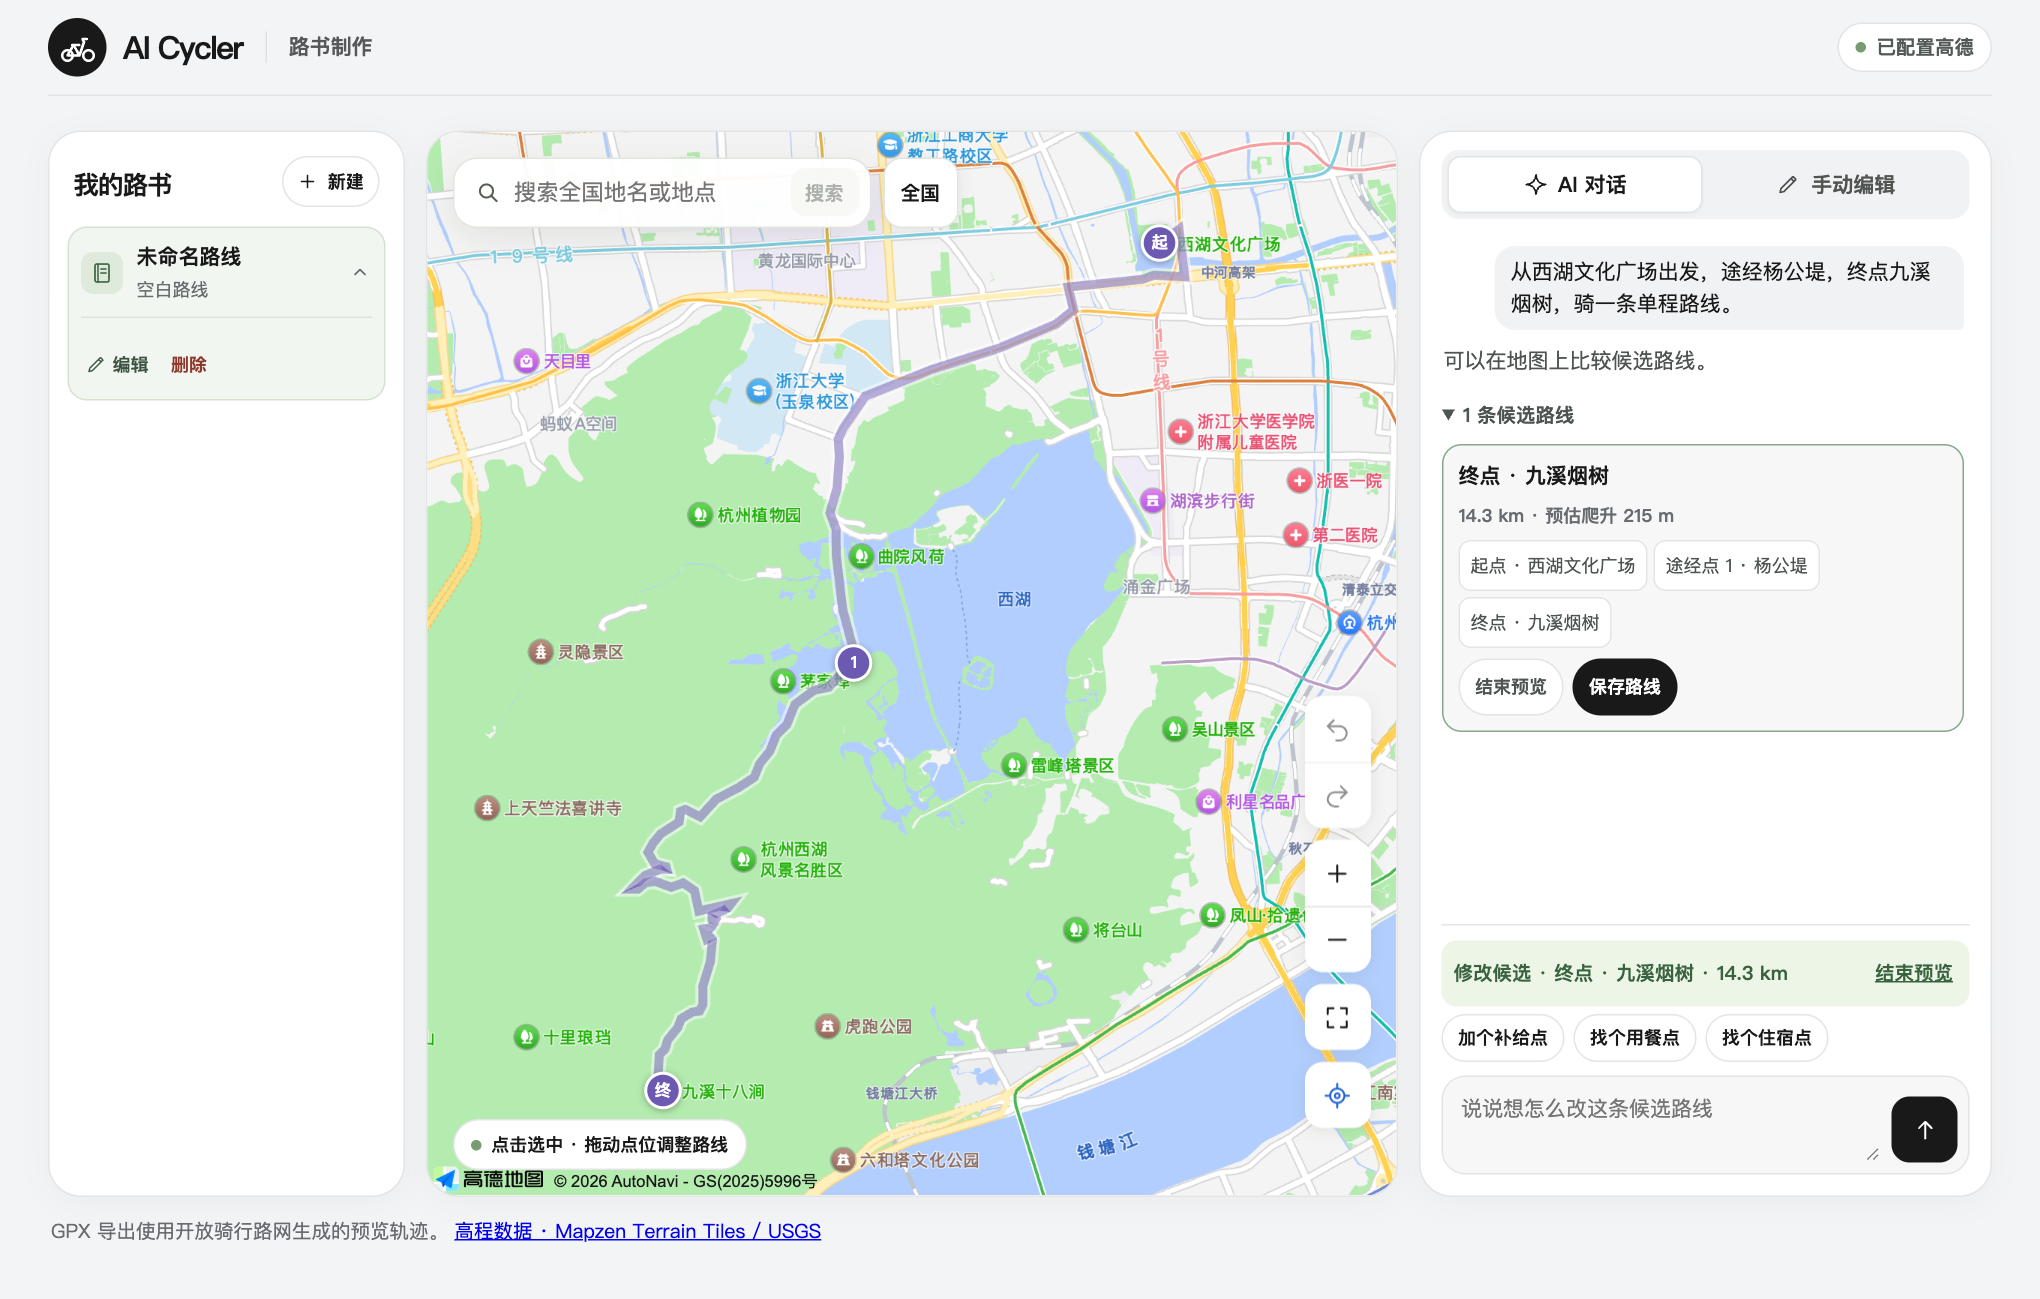
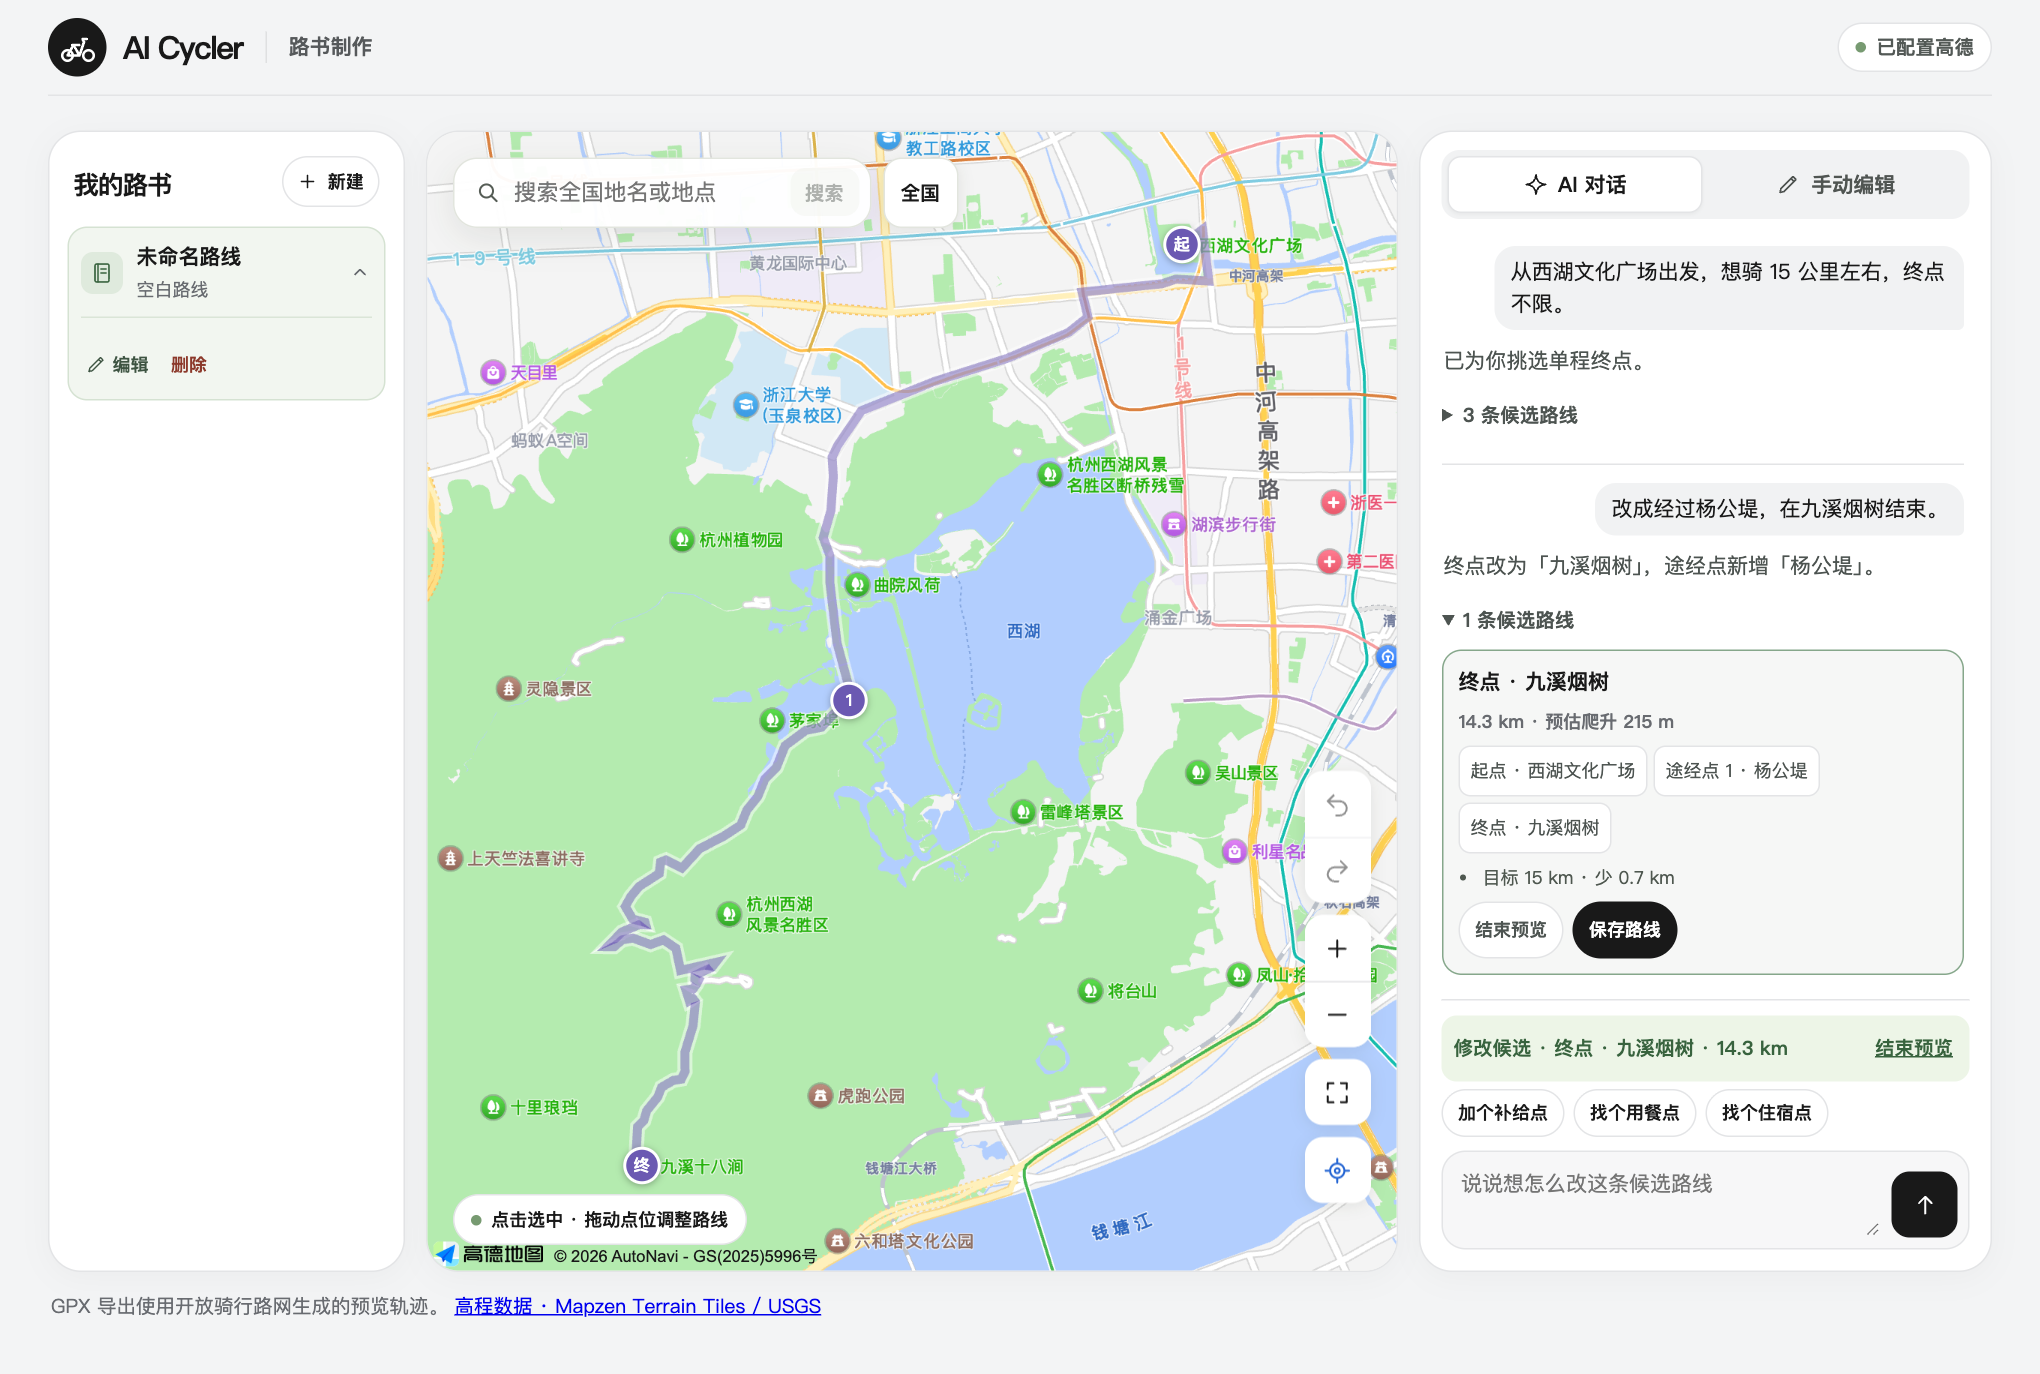
docs: show open-ended and multi-turn route planning

diff --git a/README.md b/README.md
@@ -6,11 +6,13 @@
 
 以下截图以配置高德地图后的杭州骑行路线为例。
 
-### 用自然语言规划路线
+### 用自然语言规划路线，再通过对话调整
 
-在「AI 对话」里输入起点、途经点和终点。右侧候选卡片显示里程和预估爬升，地图用紫色绘制当前预览的路线。确认后点「保存路线」，即可收入「我的路书」。
+在「AI 对话」里，可以先说个大概，比如「从西湖文化广场出发，想骑 15 公里左右，终点不限」。助手会查找可骑达的终点并生成候选路线。你可以在地图上预览候选，查看里程和预估爬升。
 
-![AI 对话根据西湖文化广场、杨公堤和九溪烟树生成骑行路线，地图显示紫色预览](docs/screenshots/ai-planning.png)
+接着说「改成经过杨公堤，在九溪烟树结束」，助手会基于当前预览重新规划。你还可以继续调整里程、修改途经点或增加补给点，满意后再保存到「我的路书」。
+
+![首轮按大致里程和开放终点生成候选，追问后在地图上预览经杨公堤到九溪烟树的路线](docs/screenshots/ai-planning.png)
 
 ### 在地图上调整路书
 
